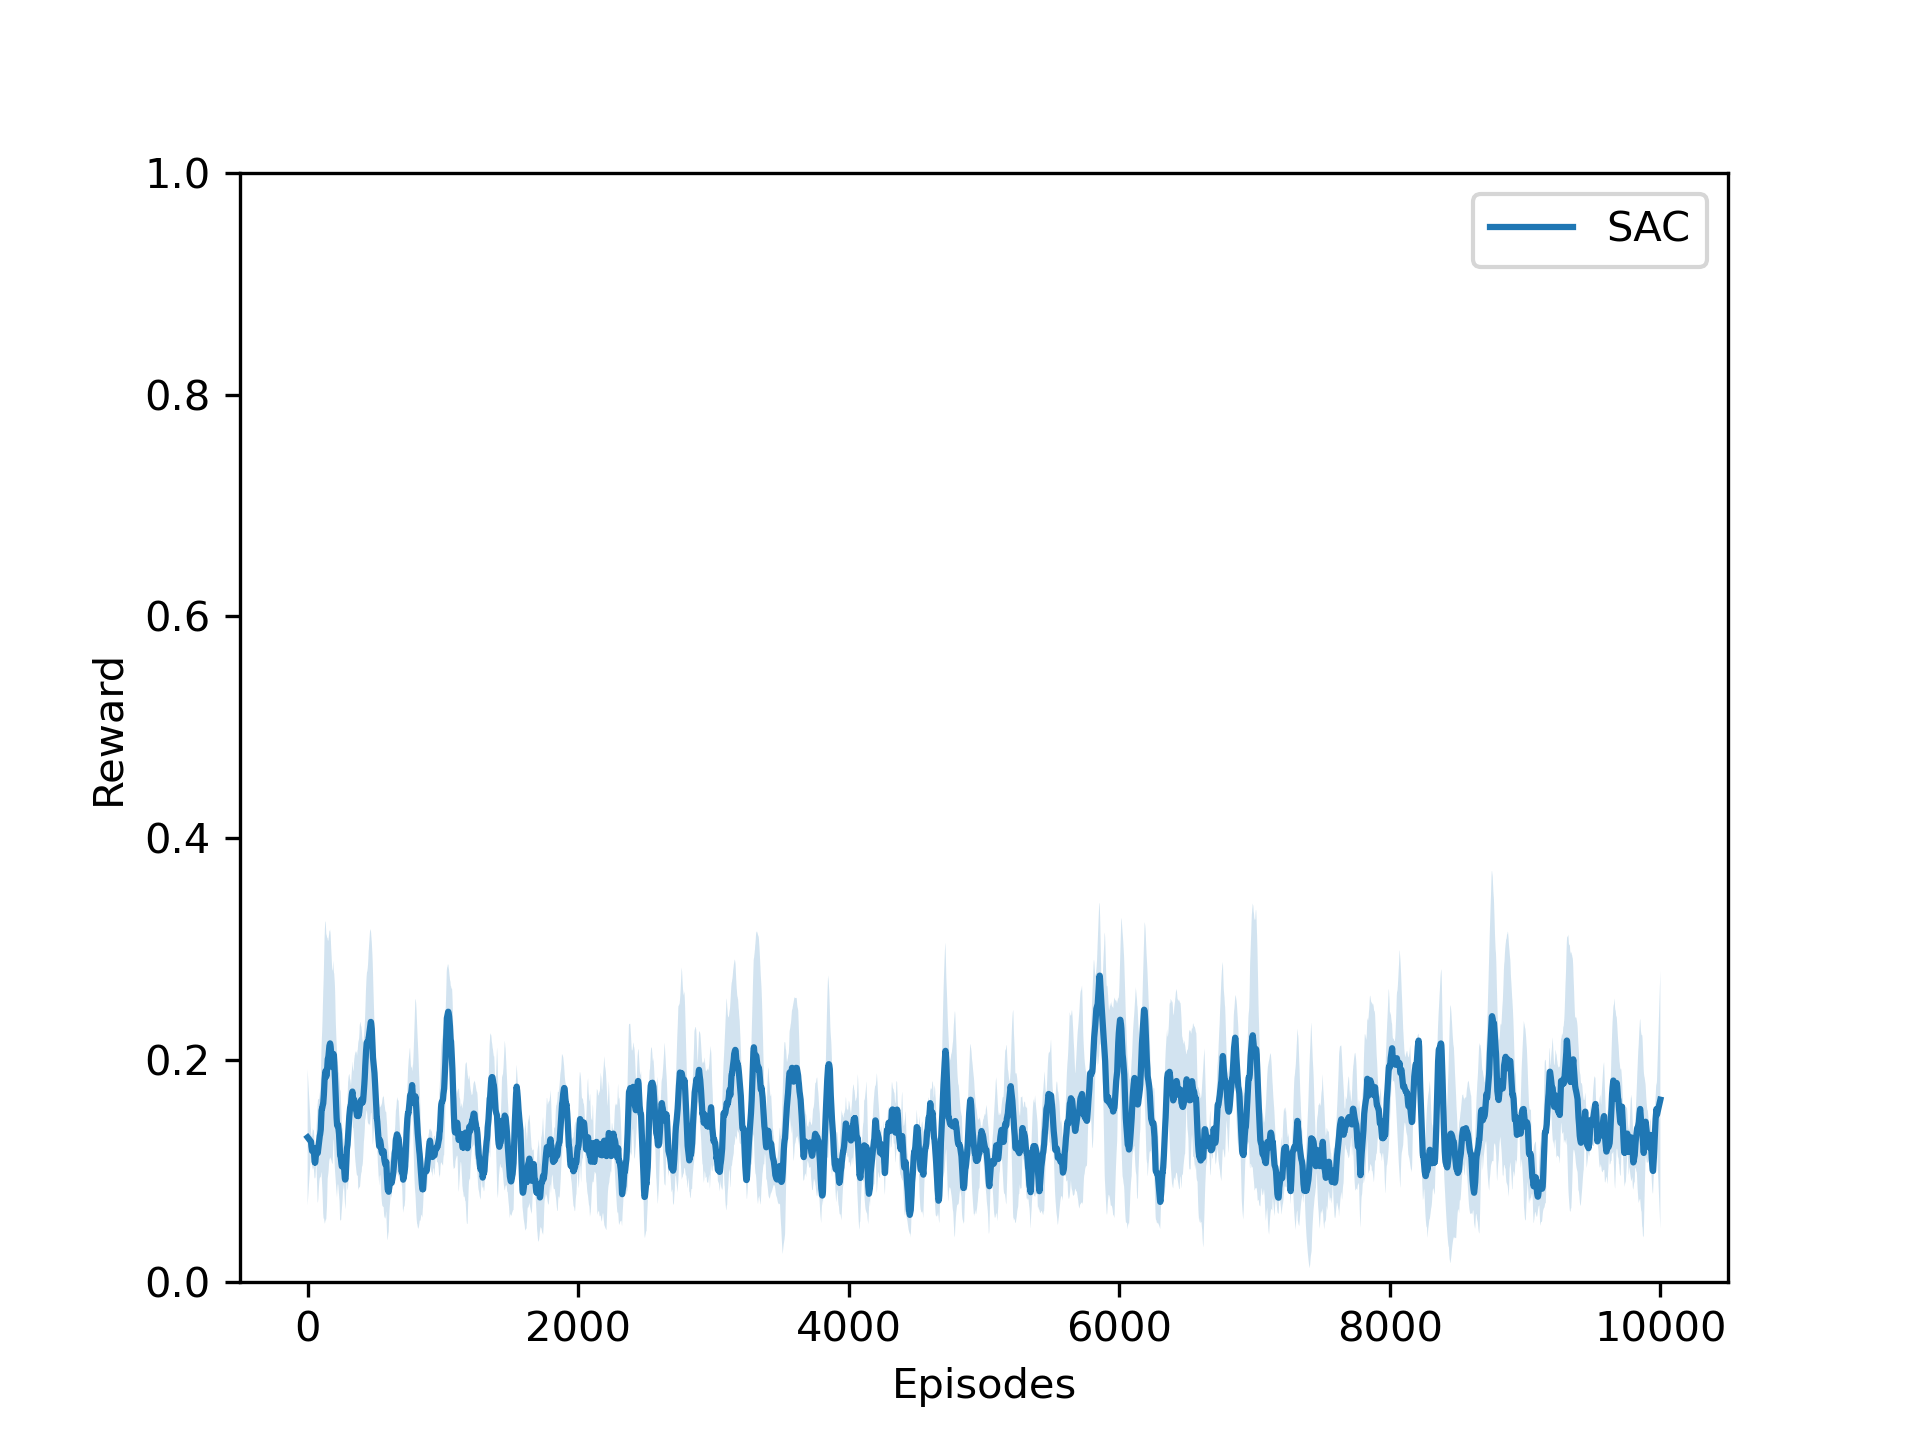
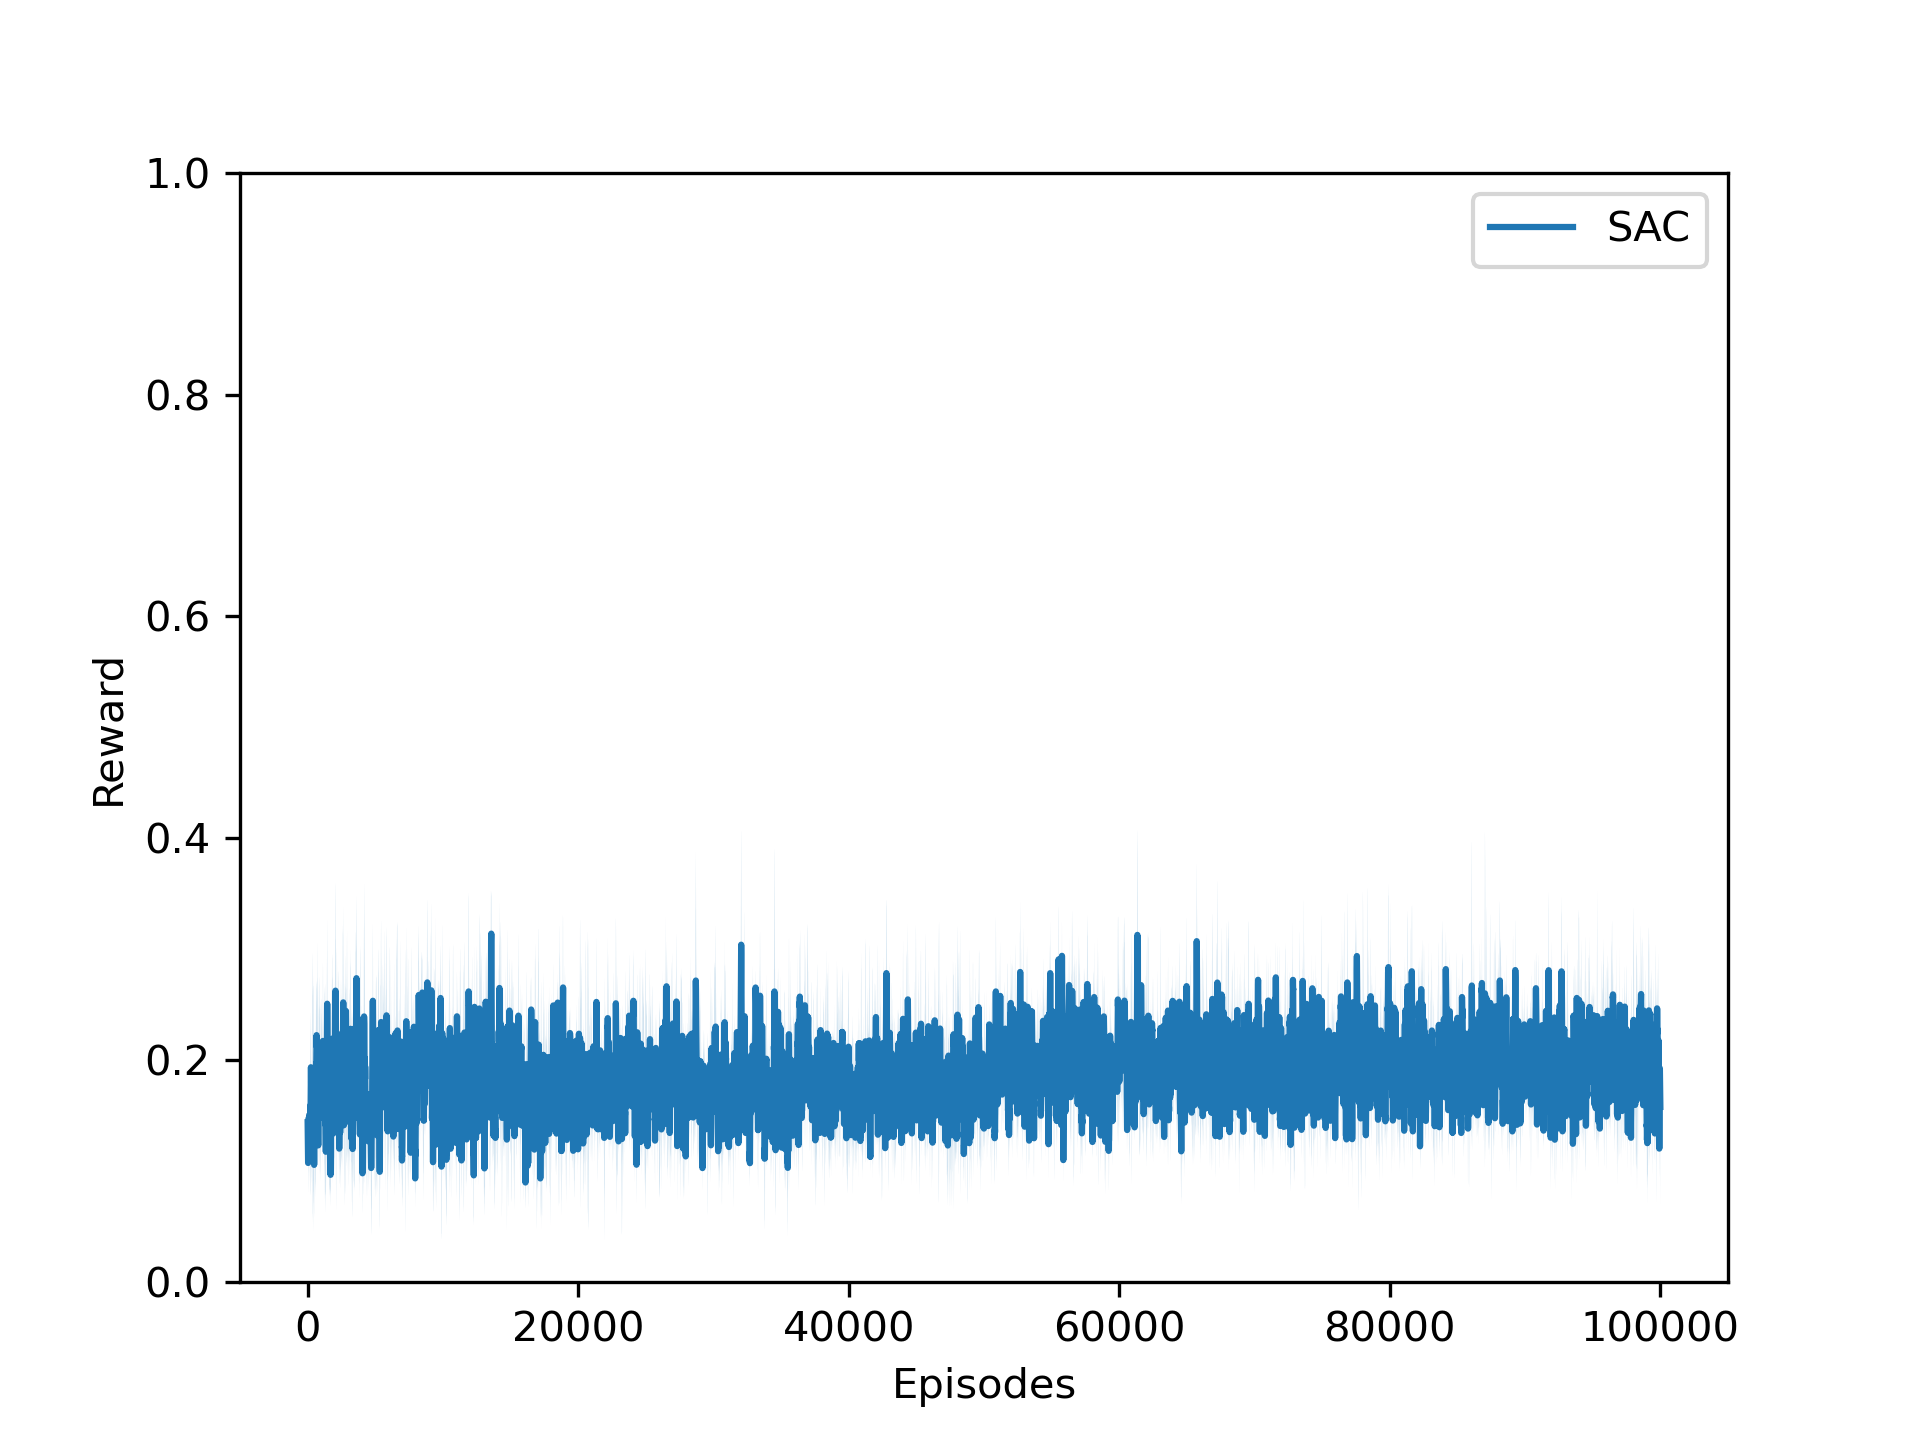
new SAC experiment

diff --git a/SAC-experiment.py b/SAC-experiment.py
@@ -50,7 +50,7 @@ model = SAC("MlpPolicy", env, verbose=1, buffer_size=10000)
 callback = RewardCallback()
 
 # Create an experiment
-n_timesteps = 10000
+n_timesteps = 100000
 n_runs = 3
 
 plot = LearningCurvePlot()
